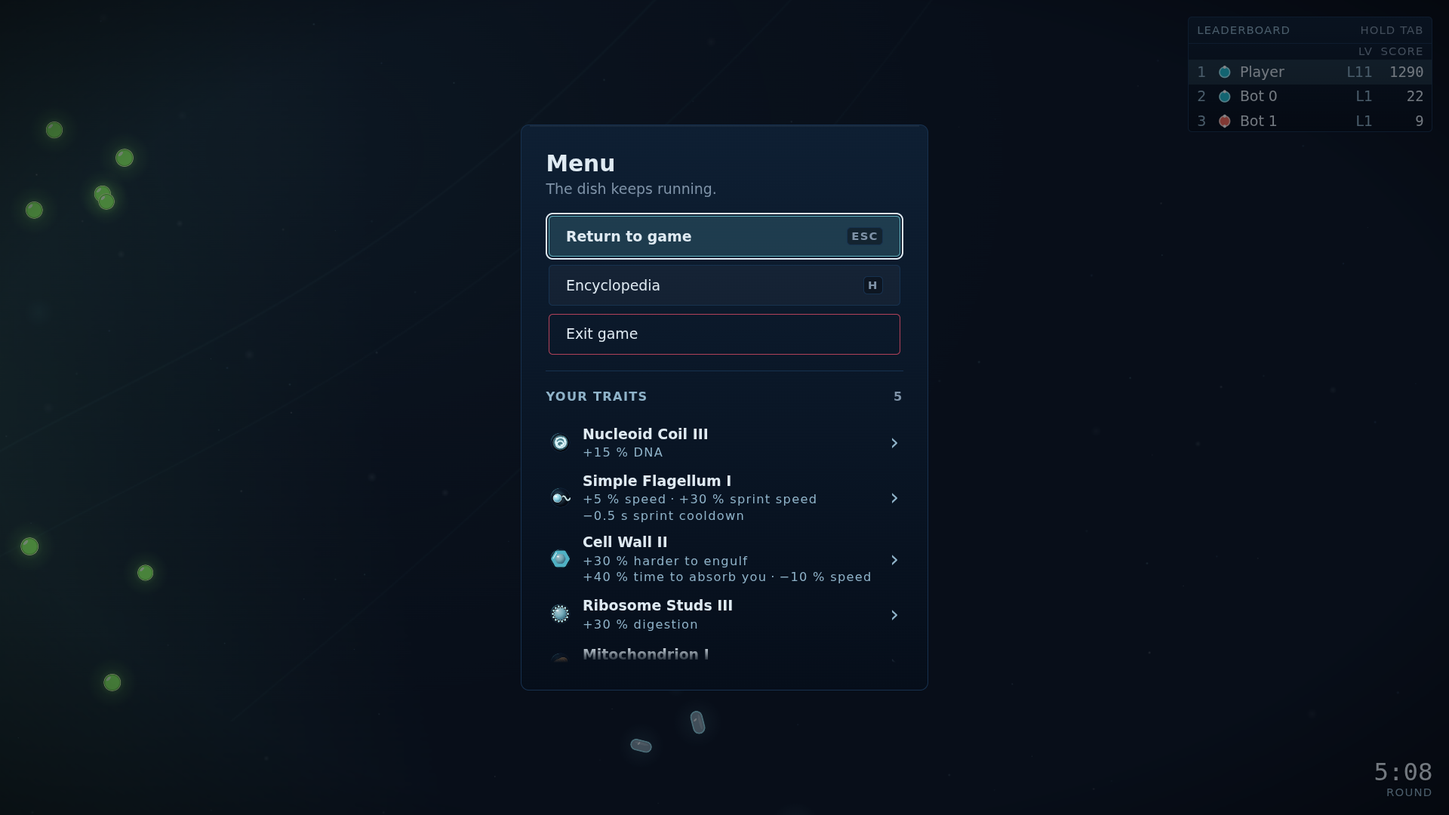
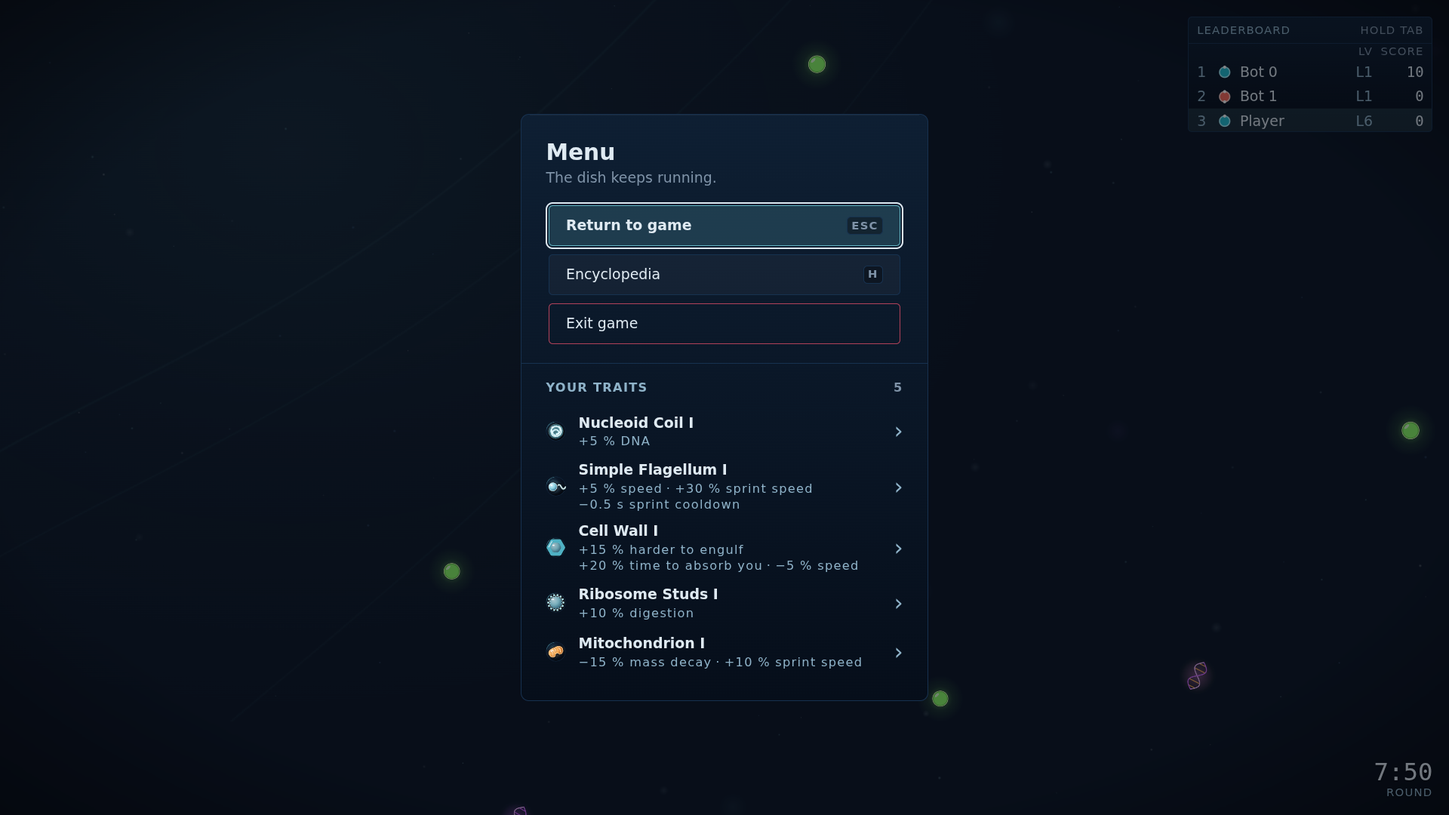
fix(hud): measure the Your traits cap, and run its rule edge to edge (#371)
graphics-qa's round one on #434. `MENU_TRAITS_VISIBLE_ROWS` is a row count, but the stylesheet spent it
as a pixel budget (rows × `MENU_TRAIT_ROW_HEIGHT_PX`), which sliced the fifth row through its text
whenever one of the first five carried two effect lines. The cap is now the first five rows as drawn:
the pure `visibleRowsHeightPx` over heights the component measures through one resize observer on the
list, bound as an inline style, with no `max-height` left in the stylesheet and the row count no longer
published as a `--hud-…` length.

The section also moves into the kit panel's new `[uiPanelBleed]` slot, under the body but outside its
scroll area, which clips at its padding box: its rule now runs edge to edge as the mockups draw it,
while its heading and rows take the panel padding back as their own inset.

diff --git a/packages/client/src/app/game/hud/menu-traits.component.ts b/packages/client/src/app/game/hud/menu-traits.component.ts
@@ -3,12 +3,24 @@
 // only between two effects and never cut, so a row grows a line at a time; a trailing `›`. The list is one Tab stop
 // with ↑ ↓ between rows, and a row opens the trait's encyclopedia entry. Past `MENU_TRAITS_VISIBLE_ROWS` it scrolls.
 
-import { ChangeDetectionStrategy, Component, computed, input, output } from '@angular/core';
+import {
+  ChangeDetectionStrategy,
+  Component,
+  ElementRef,
+  computed,
+  effect,
+  input,
+  output,
+  signal,
+  viewChild,
+} from '@angular/core';
+import { observeElementSize } from '../../ui-kit/element-size';
 import { UiListRowComponent } from '../../ui-kit/ui-list-row.component';
 import { UiListComponent } from '../../ui-kit/ui-list.component';
 import { UiScrollAreaComponent } from '../../ui-kit/ui-scroll-area.component';
 import { TraitGlyphComponent } from '../glyphs/trait-glyph.component';
-import type { MenuTraitRow } from './format/menu-traits';
+import { visibleRowsHeightPx, type MenuTraitRow } from './format/menu-traits';
+import { MENU_TRAITS_VISIBLE_ROWS } from './hud-constants';
 import { HUD_TEST_ID, menuTraitTestId } from './test-ids';
 
 @Component({
@@ -25,8 +37,8 @@ import { HUD_TEST_ID, menuTraitTestId } from './test-ids';
     @if (rows().length === 0) {
       <p class="empty">No traits yet</p>
     } @else {
-      <ui-scroll-area class="scroll" label="Your traits">
-        <ui-list aria-label="Your traits" [testId]="testId.menuTraits" (selectedIdChange)="open($event)">
+      <ui-scroll-area class="scroll" label="Your traits" [style.max-height.px]="maxHeightPx()">
+        <ui-list #list aria-label="Your traits" [testId]="testId.menuTraits" (selectedIdChange)="open($event)">
           @for (row of rows(); track row.traitId) {
             <ui-list-row class="row" [itemId]="row.traitId" [testId]="rowTestId(row)">
               <app-trait-glyph uiLeading class="glyph" lod="list" still [traitId]="row.traitId" />
@@ -57,7 +69,37 @@ export class MenuTraitsComponent {
 
   protected readonly testId = HUD_TEST_ID;
 
+  // `read: ElementRef`, since `#list` sits on a component: without it the query answers the `ui-list` instance.
+  private readonly listElement = viewChild('list', { read: ElementRef });
+  private readonly maxHeight = signal<number | null>(null);
+
+  /**
+   * What the scroll area is capped at, in real px: the first `MENU_TRAITS_VISIBLE_ROWS` rows as drawn, or `null`
+   * while the list fits. Measured rather than multiplied out, since a row grows with each effect line (§3.5).
+   */
+  protected readonly maxHeightPx = this.maxHeight.asReadonly();
+
   private readonly rowsById = computed(() => new Map(this.rows().map((row) => [row.traitId as string, row])));
+
+  constructor() {
+    // The rows resize when they arrive, when an effect line wraps and when the UI scale changes; each is a resize
+    // of the list itself, so one observer covers every case and no render pass measures on its own.
+    effect((onCleanup) => {
+      const list = this.listElement()?.nativeElement;
+      if (list === undefined) {
+        this.maxHeight.set(null);
+        return;
+      }
+      onCleanup(observeElementSize(list, () => this.measure()));
+    });
+  }
+
+  /** Re-reads the drawn row heights and caps the list; the resize observer calls it, and a spec can. */
+  measure(): void {
+    const list = this.listElement()?.nativeElement;
+    const rowHeights = list === undefined ? [] : [...list.children].map((row) => (row as HTMLElement).offsetHeight);
+    this.maxHeight.set(visibleRowsHeightPx(rowHeights, MENU_TRAITS_VISIBLE_ROWS));
+  }
 
   protected rowTestId(row: MenuTraitRow): string {
     return menuTraitTestId(row.traitId);

diff --git a/packages/client/src/app/game/hud/menu-traits.component.spec.ts b/packages/client/src/app/game/hud/menu-traits.component.spec.ts
@@ -1,0 +1,76 @@
+import { TestBed, type ComponentFixture } from '@angular/core/testing';
+import { beforeEach, describe, expect, it } from 'vitest';
+import { TRAIT_CATALOG } from '@evolution/shared';
+import { traitEntryId, type MenuTraitRow } from './format/menu-traits';
+import { MENU_TRAITS_VISIBLE_ROWS, MENU_TRAIT_LINE_HEIGHT_PX, MENU_TRAIT_ROW_HEIGHT_PX } from './hud-constants';
+import { MenuTraitsComponent } from './menu-traits.component';
+
+/** A row as drawn with one effect line, and one whose effects wrap onto a second line. */
+const ONE_LINE_PX = MENU_TRAIT_ROW_HEIGHT_PX;
+const TWO_LINES_PX = MENU_TRAIT_ROW_HEIGHT_PX + MENU_TRAIT_LINE_HEIGHT_PX;
+
+/** Real catalog traits, so each row draws its glyph the way the menu does. */
+function rowsFor(count: number): MenuTraitRow[] {
+  return TRAIT_CATALOG.slice(0, count).map((trait) => ({
+    traitId: trait.id,
+    name: `${trait.name} I`,
+    effects: ['+5 % speed'],
+    entryId: traitEntryId(trait.id),
+  }));
+}
+
+describe('MenuTraitsComponent, the list cap (docs/ui/overlays.md §3.5)', () => {
+  let fixture: ComponentFixture<MenuTraitsComponent>;
+
+  function root(): HTMLElement {
+    return fixture.nativeElement as HTMLElement;
+  }
+
+  function scrollAreaMaxHeight(): string {
+    return root().querySelector<HTMLElement>('ui-scroll-area')?.style.maxHeight ?? '';
+  }
+
+  /** jsdom lays nothing out: gives each row the height it would be drawn with, then re-measures. */
+  function drawRowsAt(heightsPx: readonly number[]): void {
+    const rows = [...root().querySelectorAll<HTMLElement>('ui-list-row')];
+    rows.forEach((row, index) => {
+      Object.defineProperty(row, 'offsetHeight', { configurable: true, value: heightsPx[index] ?? ONE_LINE_PX });
+    });
+    fixture.componentInstance.measure();
+    fixture.detectChanges();
+  }
+
+  function show(rows: MenuTraitRow[]): void {
+    fixture.componentRef.setInput('rows', rows);
+    fixture.detectChanges();
+  }
+
+  beforeEach(() => {
+    TestBed.configureTestingModule({ imports: [MenuTraitsComponent] });
+    fixture = TestBed.createComponent(MenuTraitsComponent);
+    fixture.componentRef.setInput('rows', []);
+    fixture.detectChanges();
+  });
+
+  it('caps nothing while the list fits, however tall its rows are drawn', () => {
+    show(rowsFor(MENU_TRAITS_VISIBLE_ROWS));
+    drawRowsAt(Array<number>(MENU_TRAITS_VISIBLE_ROWS).fill(TWO_LINES_PX));
+    expect(scrollAreaMaxHeight()).toBe('');
+  });
+
+  it('caps a longer list at the first five rows as drawn, so a two-line row is never sliced', () => {
+    show(rowsFor(MENU_TRAITS_VISIBLE_ROWS + 2));
+    // Two of the five rows carry a second effect line, as Simple Flagellum I and Cell Wall II do.
+    drawRowsAt([ONE_LINE_PX, TWO_LINES_PX, ONE_LINE_PX, TWO_LINES_PX, ONE_LINE_PX, ONE_LINE_PX, ONE_LINE_PX]);
+
+    const expectedPx = ONE_LINE_PX * 3 + TWO_LINES_PX * 2;
+    expect(scrollAreaMaxHeight()).toBe(`${expectedPx}px`);
+    // The fixed rows × row-height cap this replaces would have been shorter, and cut the fifth row through its text.
+    expect(expectedPx).toBeGreaterThan(MENU_TRAITS_VISIBLE_ROWS * MENU_TRAIT_ROW_HEIGHT_PX);
+  });
+
+  it('has nothing to cap before the first pick', () => {
+    expect(root().querySelector('ui-scroll-area')).toBeNull();
+    expect(root().textContent).toContain('No traits yet');
+  });
+});

diff --git a/packages/client/src/app/game/hud/menu-traits.component.css b/packages/client/src/app/game/hud/menu-traits.component.css
@@ -1,10 +1,15 @@
 /* The menu's `Your traits` section (docs/ui/overlays.md §3.5). Kit tokens for type, colour and spacing; the row sizes
    are the menu's own `--hud-menu-…`. */
 
+/* The section spans the panel's full width, so its rule runs edge to edge as the mockups draw it (§3.5). It sits in
+   the kit panel's `[uiPanelBleed]` slot — outside the body's scroll area, which would clip anything drawn past its
+   padding box — and takes the panel's padding back as its own inset, on the heading and on the rows. */
 :host {
   display: flex;
   flex-direction: column;
   gap: calc(var(--ui-space-m) * var(--ui-scale));
+  min-height: 0;
+  margin-inline: calc(-1 * var(--ui-panel-padding) * var(--ui-scale));
   padding-top: calc(var(--ui-space-l) * var(--ui-scale));
   border-top: calc(var(--ui-rim) * var(--ui-scale)) solid var(--ui-panel-rim);
 }
@@ -14,6 +19,7 @@
   align-items: baseline;
   justify-content: space-between;
   margin: 0;
+  padding-inline: calc(var(--ui-panel-padding) * var(--ui-scale));
   color: var(--ui-text-label);
   font-size: calc(var(--ui-type-label) * var(--ui-scale));
   font-weight: bold;
@@ -27,21 +33,22 @@
 
 .empty {
   margin: 0;
+  padding-inline: calc(var(--ui-panel-padding) * var(--ui-scale));
   color: var(--ui-text-muted);
 }
 
-/* Five one-line rows show before the list scrolls; a row with more effect lines takes more of that height. */
-.scroll {
-  max-height: calc(var(--hud-menu-traits-visible-rows) * var(--hud-menu-trait-row-height) * var(--ui-scale));
-}
+/* No `max-height` here: `MENU_TRAITS_VISIBLE_ROWS` is a row count, and a row grows with each effect line, so the cap
+   is the first five rows measured as drawn (`visibleRowsHeightPx`) and set as an inline style. A fixed
+   rows × row-height cap slices a row that carries two effect lines. */
 
-/* The kit row, grown to hold a name over wrapping effect lines instead of one ellipsised title, and as wide as the
-   panel allows, so Mitochondrion I's two effects fit on one line (overlays.md §3.5's panel width). */
+/* The kit row, grown to hold a name over wrapping effect lines instead of one ellipsised title, and inset from the
+   panel edge so its tint reaches past the text the way the mockups draw it. */
 .row {
   height: auto;
   min-height: calc(var(--hud-menu-trait-row-height) * var(--ui-scale));
+  margin-inline: calc(var(--ui-space-l) * var(--ui-scale));
   padding-block: calc(var(--ui-space-xs) * var(--ui-scale));
-  padding-inline: calc(var(--ui-space-xs) * var(--ui-scale));
+  padding-inline: calc(var(--ui-space-s) * var(--ui-scale));
   white-space: normal;
 }
 

diff --git a/packages/client/src/app/game/hud/format/menu-traits.spec.ts b/packages/client/src/app/game/hud/format/menu-traits.spec.ts
@@ -1,10 +1,15 @@
 import { describe, expect, it } from 'vitest';
 import { DEFAULT_BALANCE, TRAIT_CATALOG, type OwnedTrait, type TraitId } from '@evolution/shared';
-import { menuTraitRowsFor, traitEntryId } from './menu-traits';
+import { menuTraitRowsFor, traitEntryId, visibleRowsHeightPx } from './menu-traits';
 import { describeTierModifiers } from './trait-effects';
 
 const NUCLEOID = 'nucleoid' as TraitId;
 const MITOCHONDRION = 'mitochondrion' as TraitId;
+
+/** The menu's row count, and a row as drawn with one effect line and with two. */
+const VISIBLE_ROWS = 5;
+const ONE_LINE = 48;
+const TWO_LINES = 64;
 
 function catalogNameOf(traitId: TraitId): string {
   return TRAIT_CATALOG.find((trait) => trait.id === traitId)!.name;
@@ -47,5 +52,23 @@ describe('menuTraitRowsFor', () => {
   it('has no rows before the first pick, and none for a trait the catalog does not hold', () => {
     expect(menuTraitRowsFor([], DEFAULT_BALANCE.traits)).toEqual([]);
     expect(menuTraitRowsFor([{ traitId: 'retired' as TraitId, tier: 1 }], DEFAULT_BALANCE.traits)).toEqual([]);
+  });
+});
+
+describe('visibleRowsHeightPx', () => {
+  it('does not cap a list that fits: five rows have nothing to scroll', () => {
+    expect(visibleRowsHeightPx(Array<number>(VISIBLE_ROWS).fill(ONE_LINE), VISIBLE_ROWS)).toBeNull();
+    expect(visibleRowsHeightPx([ONE_LINE], VISIBLE_ROWS)).toBeNull();
+  });
+
+  it('caps a longer list at the first five rows as drawn, so a two-line row is never sliced', () => {
+    const heights = [ONE_LINE, TWO_LINES, ONE_LINE, TWO_LINES, ONE_LINE, ONE_LINE, ONE_LINE];
+    // The fixed cap this replaces would have been 5 × 48 = 240, which cuts through the fifth row.
+    expect(visibleRowsHeightPx(heights, VISIBLE_ROWS)).toBe(ONE_LINE * 3 + TWO_LINES * 2);
+    expect(visibleRowsHeightPx(heights, VISIBLE_ROWS)).toBeGreaterThan(ONE_LINE * VISIBLE_ROWS);
+  });
+
+  it('does not cap before there is a layout to measure', () => {
+    expect(visibleRowsHeightPx([0, 0, 0, 0, 0, 0], VISIBLE_ROWS)).toBeNull();
   });
 });

diff --git a/packages/client/src/app/ui-kit/ui-panel.component.spec.ts b/packages/client/src/app/ui-kit/ui-panel.component.spec.ts
@@ -60,6 +60,38 @@ class TrappedPanelHostComponent {}
 })
 class SubtitledPanelHostComponent {}
 
+@Component({
+  standalone: true,
+  imports: [UiPanelComponent],
+  template: `
+    <ui-panel testId="bleed-panel" title="Menu">
+      <p data-testid="bleed-body">Body</p>
+      <section uiPanelBleed data-testid="bleed-section">Your traits</section>
+      <button uiPanelFooter data-testid="bleed-footer">Done</button>
+    </ui-panel>
+  `,
+})
+class BleedPanelHostComponent {}
+
+describe('UiPanelComponent bleed slot', () => {
+  it('sits under the body but outside its scroll area, before the footer, so a section can span the panel', () => {
+    TestBed.configureTestingModule({ imports: [BleedPanelHostComponent] });
+    const fixture = TestBed.createComponent(BleedPanelHostComponent);
+    fixture.detectChanges();
+    const panel = (fixture.nativeElement as HTMLElement).querySelector<HTMLElement>('[data-testid="bleed-panel"]')!;
+    const body = panel.querySelector<HTMLElement>('ui-scroll-area.body')!;
+    const bleed = panel.querySelector<HTMLElement>('[data-testid="bleed-section"]')!;
+    const footer = panel.querySelector<HTMLElement>('.footer')!;
+
+    // Inside the scroll area, anything drawn past the padding box is clipped; the bleed section is not inside it.
+    expect(body.contains(bleed)).toBe(false);
+    expect(body.querySelector('[data-testid="bleed-body"]')).not.toBeNull();
+    expect(bleed.parentElement).toBe(panel);
+    expect(body.compareDocumentPosition(bleed) & Node.DOCUMENT_POSITION_FOLLOWING).toBeTruthy();
+    expect(bleed.compareDocumentPosition(footer) & Node.DOCUMENT_POSITION_FOLLOWING).toBeTruthy();
+  });
+});
+
 describe('UiPanelComponent subtitle', () => {
   it('sets one line under the title, which describes the dialog', () => {
     TestBed.configureTestingModule({ imports: [SubtitledPanelHostComponent] });

diff --git a/packages/client/src/app/game/hud/format/hud-css-variables.ts b/packages/client/src/app/game/hud/format/hud-css-variables.ts
@@ -58,7 +58,6 @@ import {
   MENU_PANEL_WIDTH_PX,
   MENU_TRAIT_LINE_HEIGHT_PX,
   MENU_TRAIT_ROW_HEIGHT_PX,
-  MENU_TRAITS_VISIBLE_ROWS,
   PICKER_CARD_CONTENT_GAP_PX,
   PICKER_CARD_GLOW_PX,
   PICKER_CARD_HIGHLIGHT_MS,
@@ -140,13 +139,15 @@ function pickerVariables(): StyleVariables {
   };
 }
 
-/** The Escape menu (docs/ui/overlays.md §3.5): the panel, the `Your traits` rows and how many show before it scrolls. */
+/**
+ * The Escape menu (docs/ui/overlays.md §3.5): the panel and the `Your traits` rows. How many rows show before the list
+ * scrolls is not published: `MENU_TRAITS_VISIBLE_ROWS` is a row count the component measures with, never a length.
+ */
 function menuVariables(): StyleVariables {
   return {
     '--hud-menu-panel-width': `${MENU_PANEL_WIDTH_PX}px`,
     '--hud-menu-trait-row-height': `${MENU_TRAIT_ROW_HEIGHT_PX}px`,
     '--hud-menu-trait-line-height': `${MENU_TRAIT_LINE_HEIGHT_PX}px`,
-    '--hud-menu-traits-visible-rows': String(MENU_TRAITS_VISIBLE_ROWS),
     '--hud-menu-trait-glyph': `${TRAIT_GLYPH_LIST_PX}px`,
   };
 }

diff --git a/packages/client/src/app/game/hud/format/menu-traits.ts b/packages/client/src/app/game/hud/format/menu-traits.ts
@@ -17,6 +17,19 @@ export interface MenuTraitRow {
 }
 
 const TRAIT_ENTRY_PREFIX = 'trait:';
+const NO_HEIGHT = 0;
+
+/**
+ * What the `Your traits` list is capped at (docs/ui/overlays.md §3.5): the first `visibleRows` rows **as drawn**, so a
+ * row carrying two effect lines is never sliced through its text. `MENU_TRAITS_VISIBLE_ROWS` is a row count, not a
+ * pixel height, which is why the heights are measured rather than multiplied. `null` when the list holds no more rows
+ * than that — nothing to scroll, so no cap — or before there is a layout to measure (every height still zero).
+ */
+export function visibleRowsHeightPx(rowHeightsPx: readonly number[], visibleRows: number): number | null {
+  if (rowHeightsPx.length <= visibleRows) return null;
+  const shown = rowHeightsPx.slice(0, visibleRows).reduce((total, height) => total + height, NO_HEIGHT);
+  return shown > NO_HEIGHT ? shown : null;
+}
 
 /**
  * A trait's encyclopedia entry id, `trait:<traitId>` (docs/ui/encyclopedia.md §11.2). Its home moves to the

diff --git a/packages/client/src/app/game/hud/format/hud-css-variables.spec.ts b/packages/client/src/app/game/hud/format/hud-css-variables.spec.ts
@@ -46,7 +46,6 @@ import {
   MENU_PANEL_WIDTH_PX,
   MENU_TRAIT_LINE_HEIGHT_PX,
   MENU_TRAIT_ROW_HEIGHT_PX,
-  MENU_TRAITS_VISIBLE_ROWS,
   PICKER_CARD_CONTENT_GAP_PX,
   PICKER_CARD_GLOW_PX,
   PICKER_CARD_HIGHLIGHT_MS,
@@ -150,7 +149,6 @@ const PUBLISHED_VARIABLES: readonly (readonly [string, string])[] = [
   ['--hud-menu-panel-width', `${MENU_PANEL_WIDTH_PX}px`],
   ['--hud-menu-trait-row-height', `${MENU_TRAIT_ROW_HEIGHT_PX}px`],
   ['--hud-menu-trait-line-height', `${MENU_TRAIT_LINE_HEIGHT_PX}px`],
-  ['--hud-menu-traits-visible-rows', String(MENU_TRAITS_VISIBLE_ROWS)],
   ['--hud-menu-trait-glyph', `${TRAIT_GLYPH_LIST_PX}px`],
 
   ['--hud-notice-row-height', `${NOTICE_ROW_HEIGHT_PX}px`],

diff --git a/packages/client/src/app/ui-kit/ui-panel.component.ts b/packages/client/src/app/ui-kit/ui-panel.component.ts
@@ -34,6 +34,9 @@ const PANEL_ROLE: Readonly<Record<UiPanelVariant, string>> = {
       <ng-content select="[uiPanelHeader]" />
     </header>
     <ui-scroll-area class="body" [label]="title()"><ng-content /></ui-scroll-area>
+    <!-- Under the body but outside its scroll area, which clips at its padding box: a section here can take the
+         panel padding back with a negative inline margin and run edge to edge (the menu's Your traits rule). -->
+    <ng-content select="[uiPanelBleed]" />
     <footer class="footer"><ng-content select="[uiPanelFooter]" /></footer>
   `,
   host: {

diff --git a/packages/client/src/app/game/hud/menu-overlay.component.ts b/packages/client/src/app/game/hud/menu-overlay.component.ts
@@ -78,8 +78,9 @@ import { HUD_TEST_ID, menuTraitTestId, testIdSelector } from './test-ids';
             </button>
             <app-menu-exit (exited)="exitGame()" />
           </div>
-          <app-menu-traits [rows]="traitRows()" (opened)="openTraitEntry($event)" />
         </div>
+        <!-- Outside the body's scroll area, so its rule spans the panel's full width (docs/ui/overlays.md §3.5). -->
+        <app-menu-traits uiPanelBleed [rows]="traitRows()" (opened)="openTraitEntry($event)" />
       </ui-panel>
     </div>
   `,

diff --git a/docs/ui/components-and-constants.md b/docs/ui/components-and-constants.md
@@ -213,7 +213,7 @@ Constants, `ui-kit/ui-kit-constants.ts`, px at scale 1:
 | Component (`ui-kit/`)                                                              | Selector                                         | Inputs and outputs                                                                                                                                             | What it is                                                                                                                                                                                                                                                                                                                                                                                                                                                                                                                                                                                                                                                                                                                                                                                                                                                                                                                                                                                                                                                                                              |
 | ---------------------------------------------------------------------------------- | ------------------------------------------------ | -------------------------------------------------------------------------------------------------------------------------------------------------------------- | ------------------------------------------------------------------------------------------------------------------------------------------------------------------------------------------------------------------------------------------------------------------------------------------------------------------------------------------------------------------------------------------------------------------------------------------------------------------------------------------------------------------------------------------------------------------------------------------------------------------------------------------------------------------------------------------------------------------------------------------------------------------------------------------------------------------------------------------------------------------------------------------------------------------------------------------------------------------------------------------------------------------------------------------------------------------------------------------------------- |
 | `ui-surface.directive.ts`                                                          | `[uiSurface]`                                    | —                                                                                                                                                              | §10.1.                                                                                                                                                                                                                                                                                                                                                                                                                                                                                                                                                                                                                                                                                                                                                                                                                                                                                                                                                                                                                                                                                                  |
-| `ui-panel.component.ts`                                                            | `ui-panel`                                       | `variant: 'modal' \| 'side'`, `title`, `subtitle`; slots `[uiPanelHeader]`, the body, `[uiPanelFooter]`                                                        | `modal`: the opaque panel gradient (`PANEL_TOP` → `PANEL_BOTTOM`), a 1 px `PANEL_RIM` rim, a `WHITE` @ 5 % top edge, `UI_RADIUS_PANEL_PX`, `UI_PANEL_PADDING_PX`; `role="dialog"`, `aria-modal`, labelled by its title; the host places it and it enters over `UI_PANEL_ENTER_MS`. Either variant's body sets `UI_BODY_LINE_HEIGHT`, so prose, rows and a confirm's lines are spaced once. `side`: `UI_SIDE_PANEL_WIDTH_PX` wide and at most the viewport height less two `HUD_MARGIN_PX`, its body a kit scroll area; the host anchors it to a viewport edge at `HUD_MARGIN_PX` (the kit never places it); the panel gradient at `UI_SIDE_PANEL_ALPHA` over a `UI_SIDE_PANEL_BLUR_PX` backdrop blur of the dish; `UI_SPACE_L_PX` padding, sections under `label` headings `UI_SPACE_M_PX` apart with a 1 px `PANEL_RIM` rule between them; it appears and disappears at once, with no fade and no rise, because it shows while a key is held; no scrim and no trap, `role="region"`, taking the pointer only on its controls. #356's hold-Tab panel is one (`kit-states-1280x800.png` draws a sample). |
+| `ui-panel.component.ts`                                                            | `ui-panel`                                       | `variant: 'modal' \| 'side'`, `title`, `subtitle`; slots `[uiPanelHeader]`, the body, `[uiPanelBleed]`, `[uiPanelFooter]`                                      | `modal`: the opaque panel gradient (`PANEL_TOP` → `PANEL_BOTTOM`), a 1 px `PANEL_RIM` rim, a `WHITE` @ 5 % top edge, `UI_RADIUS_PANEL_PX`, `UI_PANEL_PADDING_PX`; `role="dialog"`, `aria-modal`, labelled by its title; the host places it and it enters over `UI_PANEL_ENTER_MS`. Either variant's body sets `UI_BODY_LINE_HEIGHT`, so prose, rows and a confirm's lines are spaced once. `side`: `UI_SIDE_PANEL_WIDTH_PX` wide and at most the viewport height less two `HUD_MARGIN_PX`, its body a kit scroll area; the host anchors it to a viewport edge at `HUD_MARGIN_PX` (the kit never places it); the panel gradient at `UI_SIDE_PANEL_ALPHA` over a `UI_SIDE_PANEL_BLUR_PX` backdrop blur of the dish; `UI_SPACE_L_PX` padding, sections under `label` headings `UI_SPACE_M_PX` apart with a 1 px `PANEL_RIM` rule between them; it appears and disappears at once, with no fade and no rise, because it shows while a key is held; no scrim and no trap, `role="region"`, taking the pointer only on its controls. #356's hold-Tab panel is one (`kit-states-1280x800.png` draws a sample). |
 | `ui-panel-section.component.ts`                                                    | `ui-panel-section`                               | `heading`                                                                                                                                                      | A panel section, `role="group"` under its `label` heading: `UI_SPACE_M_PX` after the section before it with a 1 px `PANEL_RIM` rule between them (the `side` panel's sections).                                                                                                                                                                                                                                                                                                                                                                                                                                                                                                                                                                                                                                                                                                                                                                                                                                                                                                                         |
 | `ui-scrim.component.ts`                                                            | `ui-scrim`                                       | `alpha`                                                                                                                                                        | The callout backing over the viewport; it takes the pointer so a click never reaches the dish, and closes nothing.                                                                                                                                                                                                                                                                                                                                                                                                                                                                                                                                                                                                                                                                                                                                                                                                                                                                                                                                                                                      |
 | `ui-focus-trap.directive.ts`                                                       | `[uiFocusTrap]`, `[uiAutofocus]`                 | `restoreTo`                                                                                                                                                    | Holds Tab and Shift+Tab inside its host, focuses the `[uiAutofocus]` element on open and restores focus on destroy. Traps **stack**: a document-level stack in which only the topmost trap handles Tab, and destroying a trap restores its focus and pops it (the menu over the results overlay, the encyclopedia replacing the menu); a spec covers a trap over a trap. `FocusReturn` (`ui-kit/focus-return.ts`) sits beside it as the non-trapping variant the picker keeps. The trap listens on its own host, so `input/keyboard-input.ts` stays the one document keyboard handler; a trap with nothing focusable holds focus on its host. Focus that leaves the topmost trap on its own — a click on the scrim or on a panel's text drops it on `<body>` — is sent back inside on `focusout`, so the next Tab cannot reach the page behind the modal; a trap under another never pulls focus back.                                                                                                                                                                                                  |

diff --git a/docs/ui/overlays.md b/docs/ui/overlays.md
@@ -137,7 +137,11 @@ Escape closes the topmost open overlay (the full leaderboard, then the encyclope
    between two effects and never cut, so a row grows by `MENU_TRAIT_LINE_HEIGHT_PX` a line; a trailing `›`. The row is
    a link to the trait's encyclopedia entry (`trait:<traitId>`), whose Escape comes back here. `No traits yet`
    (`body`, muted) before the first pick. Past `MENU_TRAITS_VISIBLE_ROWS` rows the list scrolls in a kit scroll area,
-   so the panel never outgrows the viewport. This list is where the pre-#146 trait strip's tooltips went.
+   so the panel never outgrows the viewport; the cap is **those rows as they are drawn**, measured, since a row grows
+   with each effect line — a rows × `MENU_TRAIT_ROW_HEIGHT_PX` cap would slice a two-line row through its text. The
+   section spans the panel's full width, so its rule runs edge to edge (the kit panel's `[uiPanelBleed]` slot,
+   components-and-constants.md §10.2) while its heading and rows keep the panel's own inset. This list is where the
+   pre-#146 trait strip's tooltips went.
 
 **Focus and input.** The kit focus trap holds focus inside, and closing returns it to the canvas host. While the
 menu is open (§4's modal gate) steering keeps its latched target and the pointer over the panel does not steer,
